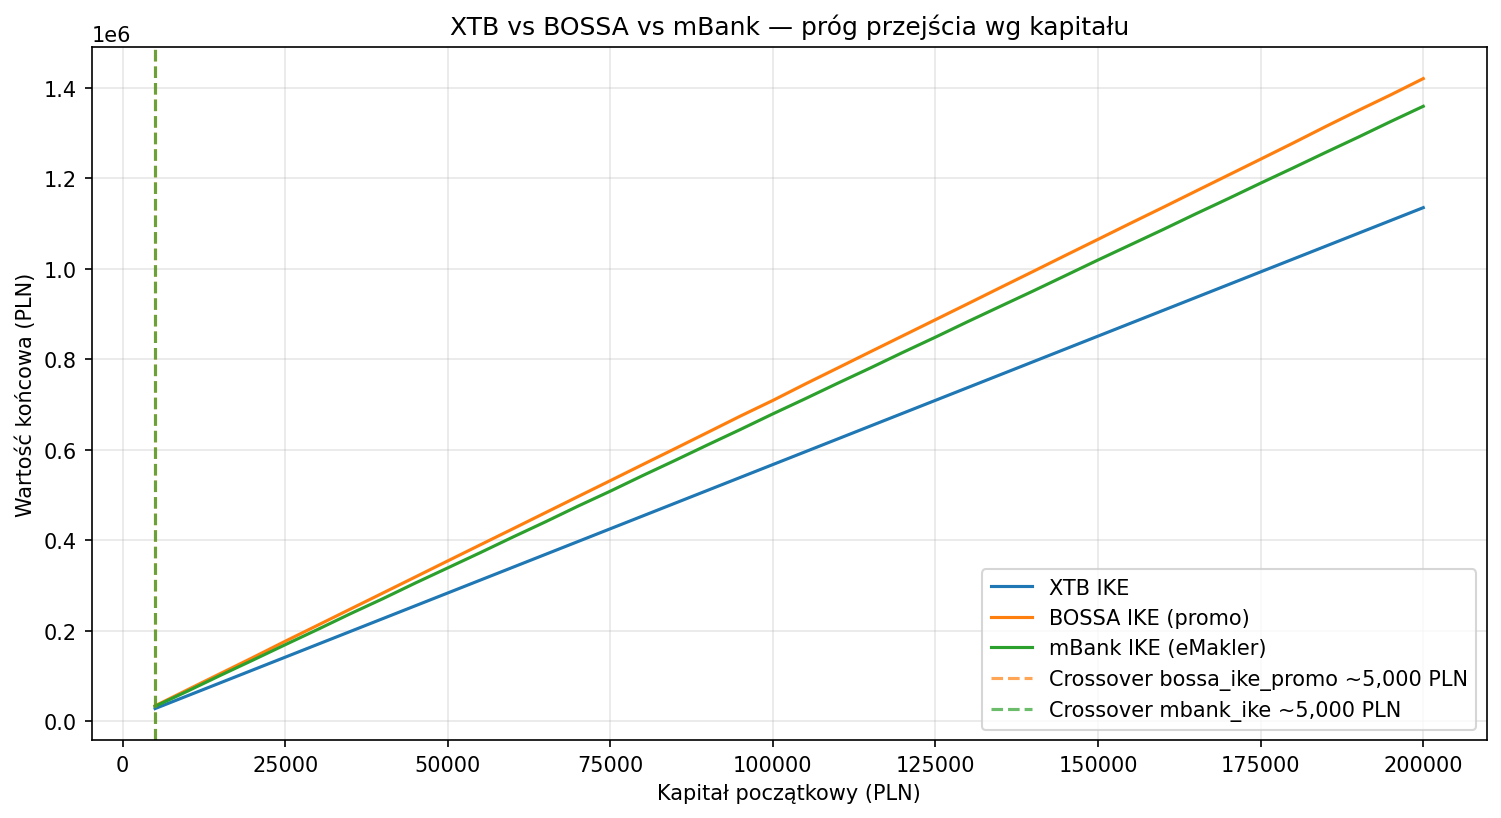
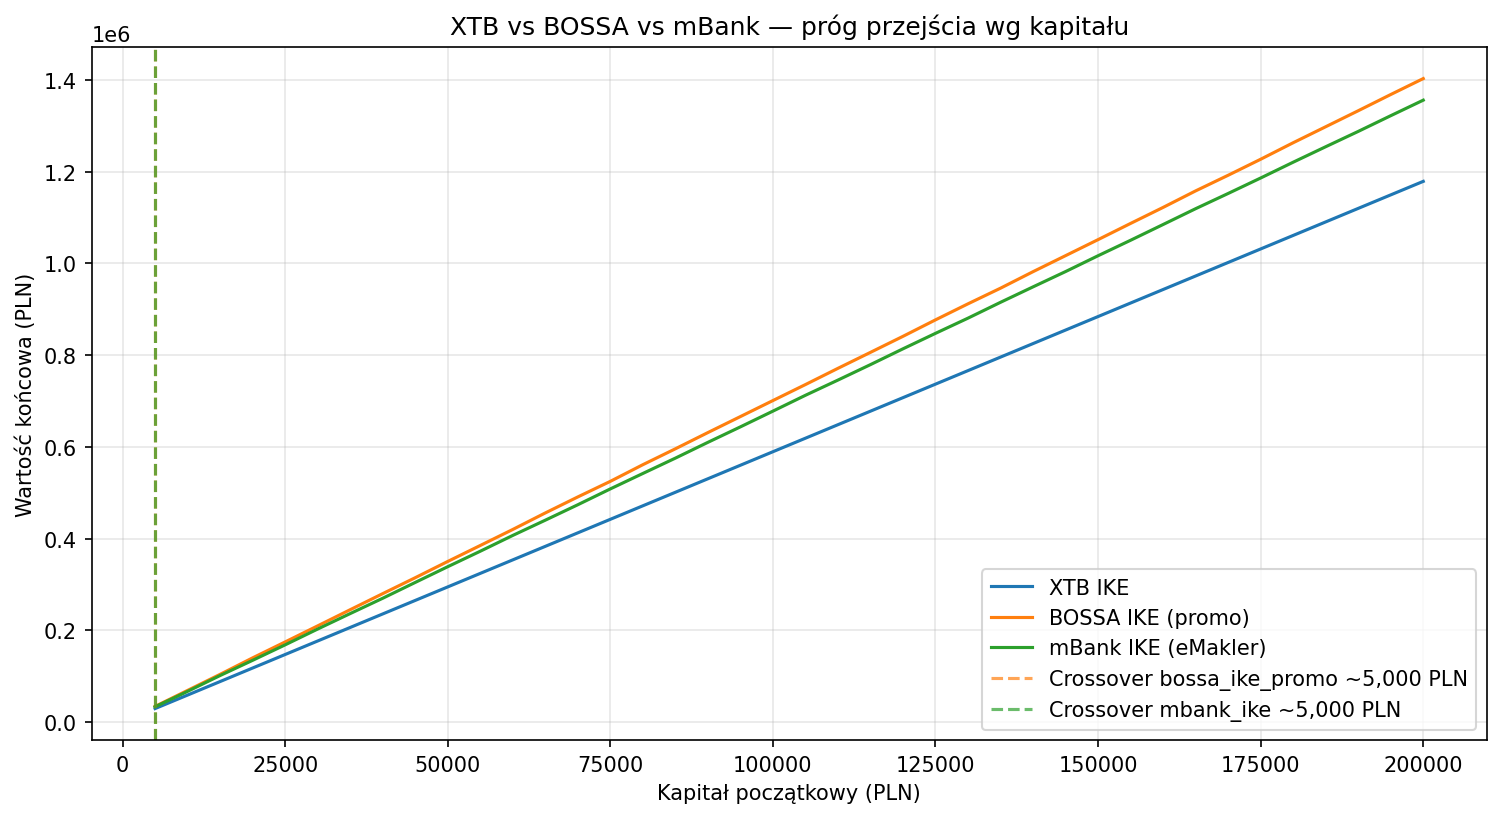
Zmiana warunku MaxDD dla doboru optymalnego deadbandu z równego maksymalnie MaxDD benchamrku na MaxDD + 10% margin benchmarku.

diff --git a/run_all.py b/run_all.py
@@ -279,15 +279,16 @@ def etap4(cfg, prices, brokers, benchmark_metrics, baseline_summary, contributio
     ref_sweep["excess_xirr"] = ref_sweep["xirr"] - bench_xirr
     ref_sweep.to_csv(RESULTS / f"deadband_sweep_reference_{ref_broker_name}.csv", index=False)
 
-    safe_df = ref_sweep[ref_sweep["max_drawdown"] >= bench_maxdd]
+    maxdd_threshold = bench_maxdd * 1.1
+    safe_df = ref_sweep[ref_sweep["max_drawdown"] >= maxdd_threshold]
     if not safe_df.empty:
         best_idx = safe_df["excess_xirr"].idxmax()
         best_row = safe_df.loc[best_idx]
-        selection_note = f"MaxDD <= benchmark (ref: {ref_broker.name})"
+        selection_note = f"MaxDD <= benchmark + 10% margin, threshold: {maxdd_threshold:.2%}, ref: {ref_broker.name})"
     else:
         best_idx = ref_sweep["max_drawdown"].idxmax()
         best_row = ref_sweep.loc[best_idx]
-        selection_note = f"fallback: min MaxDD (none passed filter on {ref_broker.name})"
+        selection_note = f"fallback: min MaxDD (none passed filter on {ref_broker.name}, threshold was {maxdd_threshold:.2%})"
 
     is_optimal_db = float(best_row["deadband"])
     print(f"\n  IS optymalny deadband = {is_optimal_db:.3f} ({is_optimal_db*100:.1f}%) [{selection_note}]")
@@ -732,7 +733,7 @@ def _write_decision_memo(cfg, baseline, optimal_dbs, universe_comp,
 ### Jak obliczono:
 1. **Broker referencyjny**: {ref_broker_label} (najtańszy IKE — najniższe tarcia kosztowe)
 2. **IS optymalny** (in-sample): {is_opt:.3f} ({is_opt*100:.1f}%) — najwyższy excess XIRR
-   spośród deadbandów, których MaxDD na brokerze referencyjnym nie przekracza MaxDD benchmarku
+   spośród deadbandów, których MaxDD na brokerze referencyjnym nie przekracza MaxDD benchmarku + 10% margin
 """
     if oos_avg is not None:
         blend_section += f"""3. **OOS średnia** (walk-forward): {oos_avg:.3f} ({oos_avg*100:.1f}%)

diff --git a/results/decision_memo.md b/results/decision_memo.md
@@ -28,33 +28,33 @@ Przy kapitale 0 PLN, najlepszy wynik końcowy daje BOSSA IKE (promo) (XTB IKE=42
 
 ## 2. Optymalny deadband — metodologia blend IS + OOS
 
-**Wynik: deadband = 0.014 (1.4%)** (jednakowy dla wszystkich brokerów)
+**Wynik: deadband = 0.046 (4.6%)** (jednakowy dla wszystkich brokerów)
 
 ### Jak obliczono:
 1. **Broker referencyjny**: BOSSA IKE (promo) (najtańszy IKE — najniższe tarcia kosztowe)
-2. **IS optymalny** (in-sample): 0.004 (0.4%) — najwyższy excess XIRR
+2. **IS optymalny** (in-sample): 0.068 (6.8%) — najwyższy excess XIRR
    spośród deadbandów, których MaxDD na brokerze referencyjnym nie przekracza MaxDD benchmarku
 3. **OOS średnia** (walk-forward): 0.024 (2.4%)
 4. **OOS mediana** (walk-forward): 0.014 (1.4%)
-5. **Blend** = (IS optymalny + OOS średnia) / 2 = (0.004 + 0.024) / 2 = 0.0142
-   → zaokrąglony do siatki: **0.014 (1.4%)**
+5. **Blend** = (IS optymalny + OOS średnia) / 2 = (0.068 + 0.024) / 2 = 0.0462
+   → zaokrąglony do siatki: **0.046 (4.6%)**
 
-Dlaczego blend: sam IS optymalny (0.4%) jest podatny na overfitting do danych
+Dlaczego blend: sam IS optymalny (6.8%) jest podatny na overfitting do danych
 historycznych. OOS średnia (2.4%) pokazuje, co faktycznie wybiera walk-forward
 na nowych danych. Uśrednienie daje kompromis odporny na overfitting.
 
-### Wyniki per broker @ deadband = 0.014
+### Wyniki per broker @ deadband = 0.046
 
 | Broker | Excess XIRR | MaxDD | Sharpe |
 |--------|-------------|-------|--------|
-| XTB IKE | -0.28% | -21.14% | 1.43 |
-| BOSSA IKE (promo) | +1.49% | -18.83% | 1.46 |
-| mBank IKE (eMakler) | +1.10% | -19.27% | 1.46 |
+| XTB IKE | +0.59% | -21.93% | 1.44 |
+| BOSSA IKE (promo) | +1.67% | -21.14% | 1.46 |
+| mBank IKE (eMakler) | +1.40% | -21.23% | 1.46 |
 
 ## 3. Uniwersum ETF
 
-Rekomendowane: **U9**
-U9 (9 ETF-ów): Sharpe=1.49, XIRR=13.99% (testowane przy IS deadband=0.4%)
+Rekomendowane: **U5**
+U5 (5 ETF-ów): Sharpe=1.50, XIRR=15.62% (testowane przy IS deadband=6.8%)
 
 ## 4. Walidacja Out-of-Sample
 
@@ -70,9 +70,9 @@ Kapitał startowy = 0 PLN.
 
 |   wpłata bazowa (PLN/mies.) |   bossa_ike_promo |   bossa_ike_standard |   mbank_ike |   taxed_account |   xtb_ike |
 |----------------------------:|------------------:|---------------------:|------------:|----------------:|----------:|
-|                         500 |           250,395 |              225,234 |     242,903 |         206,429 |   221,905 |
-|                        1000 |           508,104 |              461,103 |     493,236 |         412,857 |   443,810 |
-|                        2000 |         1,021,646 |              932,718 |     992,061 |         825,714 |   887,619 |
+|                         500 |           251,160 |              231,015 |     245,863 |         211,205 |   237,029 |
+|                        1000 |           515,400 |              480,555 |     505,529 |         422,410 |   474,059 |
+|                        2000 |         1,037,773 |              973,512 |   1,017,331 |         844,820 |   948,117 |
 
 ### Suma wpłat i rewaloryzacja
 
@@ -86,6 +86,6 @@ Kapitał startowy = 0 PLN.
 ## Podsumowanie decyzji
 
 1. **Wybierz brokera** wg powyższej tabeli kosztowej i progu crossover.
-2. **Ustaw deadband** na **1.4%** (blend IS + OOS, odporny na overfitting).
+2. **Ustaw deadband** na **4.6%** (blend IS + OOS, odporny na overfitting).
 3. **Rozważ rozszerzenie koszyka** jeśli dane OOS to potwierdzają.
 4. **Regularnie wpłacaj** — nawet małe kwoty znacząco podnoszą wartość końcową dzięki procentowi składanemu w parasolu IKE.

diff --git a/METODOLOGIA.md b/METODOLOGIA.md
@@ -130,7 +130,7 @@ Finalny deadband jest wyznaczany trójstopniowo, by uniknąć overfittingu do da
 
 1. **Broker referencyjny** — automatycznie wyznaczany jako najtańszy IKE (najwyższa wartość końcowa w baseline DCA). MaxDD strategii jest oceniany na tym brokerze, ponieważ najniższe tarcia kosztowe dają najczystszy obraz "prawdziwego" MaxDD strategii.
 
-2. **IS optymalny** (in-sample) — z siatki deadbandów wybierany jest ten, którego MaxDD na brokerze referencyjnym nie przekracza MaxDD benchmarku DCA (IWDA.L), a jednocześnie daje najwyższy excess XIRR nad benchmarkiem DCA.
+2. **IS optymalny** (in-sample) — z siatki deadbandów wybierany jest ten, którego MaxDD na brokerze referencyjnym nie przekracza MaxDD benchmarku DCA (IWDA.L) + 10% tolerancji (margin), a jednocześnie daje najwyższy excess XIRR nad benchmarkiem DCA.
 
 3. **Blend z OOS** — walk-forward generuje per fold najlepszy deadband (po Sharpe). Średnia OOS deadbandów (`oos_avg`) jest uśredniana z IS optimum:
 
@@ -280,7 +280,7 @@ Sharpe i Sortino liczone na miesięcznych stopach zwrotu krzywej equity (pct_cha
 
 Benchmark = `IWDA.L` (iShares MSCI World), buy-and-hold DCA z tym samym harmonogramem wpłat co strategia GEM (bez kosztów transakcyjnych). Używany do:
 - Obliczenia excess XIRR (XIRR strategii - XIRR benchmarku DCA)
-- Ograniczenia MaxDD przy selekcji optymalnego deadbandu (MaxDD strategii ≤ MaxDD benchmarku DCA)
+- Ograniczenia MaxDD przy selekcji optymalnego deadbandu (MaxDD strategii ≤ MaxDD benchmarku DCA + 10% tolerancji)
 
 ---
 

diff --git a/assumptions.md b/assumptions.md
@@ -53,7 +53,7 @@
 - Deadband chroni przed whipsawingiem i kompensuje koszty transakcyjne.
 - Zakres testów: 0.0% do 8.0% co 0.2 pp.
 - Wariant dynamiczny: `Delta = base + k * sigma(6m)`.
-- Wybór optymalnego: **blend IS + OOS** — IS optimum (z constraint MaxDD <= benchmark, oceniany na najtańszym brokerze IKE) uśredniany ze średnią OOS z walk-forward. Jeden deadband dla wszystkich brokerów.
+- Wybór optymalnego: **blend IS + OOS** — IS optimum (z constraint MaxDD <= benchmark + 10% margin, oceniany na najtańszym brokerze IKE) uśredniany ze średnią OOS z walk-forward. Jeden deadband dla wszystkich brokerów.
 
 ## Walk-Forward
 - Okno treningowe: 36 miesięcy (3 lata, skrócone z powodu ograniczeń danych IB01.L).
